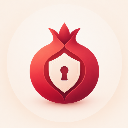
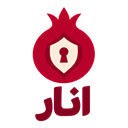
Release Anar Toolkit 1.5.6 with refreshed branding

diff --git a/assets/css/admin.css b/assets/css/admin.css
@@ -38,8 +38,6 @@
 .anar-admin__title img {
 	width: 56px;
 	height: 56px;
-	border-radius: 17px;
-	box-shadow: 0 8px 22px rgba(183, 21, 58, .16);
 }
 
 .anar-admin__title > div > div {

diff --git a/src/Commerce/Dashboard.php b/src/Commerce/Dashboard.php
@@ -93,7 +93,7 @@ final class Dashboard {
 		$pending = (int) ( $data['queue']['pending']->count ?? 0 );
 		$failed = (int) ( $data['queue']['failed']->count ?? 0 ) + (int) ( $data['queue']['uncertain']->count ?? 0 );
 		?>
-		<header class="anar-suite-header"><div class="anar-suite-brand"><img src="<?php echo esc_url( ANAR_LOGIN_URL . 'assets/images/anar-logo.png' ); ?>" alt=""><div><p>ANAR TOOLKIT <span>v<?php echo esc_html( ANAR_LOGIN_VERSION ); ?></span></p><h1><?php esc_html_e( 'Store communication', 'anar-toolkit' ); ?></h1><p class="anar-suite-subtitle"><?php esc_html_e( 'Manage messages, carts and enabled customer campaigns.', 'anar-toolkit' ); ?></p></div></div><a class="anar-suite-link" href="<?php echo esc_url( admin_url( 'admin.php?page=anar-login-settings' ) ); ?>"><span class="dashicons dashicons-admin-settings"></span><?php esc_html_e( 'Settings', 'anar-toolkit' ); ?></a></header>
+		<header class="anar-suite-header"><div class="anar-suite-brand"><img src="<?php echo esc_url( ANAR_LOGIN_URL . 'assets/images/anar-logo.png?ver=' . ANAR_LOGIN_VERSION ); ?>" alt=""><div><p>ANAR TOOLKIT <span>v<?php echo esc_html( ANAR_LOGIN_VERSION ); ?></span></p><h1><?php esc_html_e( 'Store communication', 'anar-toolkit' ); ?></h1><p class="anar-suite-subtitle"><?php esc_html_e( 'Manage messages, carts and enabled customer campaigns.', 'anar-toolkit' ); ?></p></div></div><a class="anar-suite-link" href="<?php echo esc_url( admin_url( 'admin.php?page=anar-login-settings' ) ); ?>"><span class="dashicons dashicons-admin-settings"></span><?php esc_html_e( 'Settings', 'anar-toolkit' ); ?></a></header>
 		<hr class="wp-header-end">
 		<?php if ( in_array( $tab, array( 'campaigns', 'messages' ), true ) ) : ?>
 			<?php \Anar\Login\Admin\StatusPanel::credit(); ?>

diff --git a/src/Admin/FeaturesPage.php b/src/Admin/FeaturesPage.php
@@ -72,7 +72,7 @@ final class FeaturesPage {
 		$other_first = isset( $_GET['page'] ) && 'anar-features-other' === $_GET['page'];
 		$groups = $other_first ? array( false => __( 'Other features', 'anar-toolkit' ), true => __( 'Active features', 'anar-toolkit' ) ) : array( true => __( 'Active features', 'anar-toolkit' ), false => __( 'Other features', 'anar-toolkit' ) );
 		?>
-		<div class="wrap anar-features" dir="<?php echo is_rtl() ? 'rtl' : 'ltr'; ?>"><header><img src="<?php echo esc_url( ANAR_LOGIN_URL . 'assets/images/anar-logo.png' ); ?>" alt=""><div><h1><?php esc_html_e( 'Anar Toolkit', 'anar-toolkit' ); ?></h1><p><?php esc_html_e( 'Enable the features your store needs.', 'anar-toolkit' ); ?></p></div></header><hr class="wp-header-end">
+		<div class="wrap anar-features" dir="<?php echo is_rtl() ? 'rtl' : 'ltr'; ?>"><header><img src="<?php echo esc_url( ANAR_LOGIN_URL . 'assets/images/anar-logo.png?ver=' . ANAR_LOGIN_VERSION ); ?>" alt=""><div><h1><?php esc_html_e( 'Anar Toolkit', 'anar-toolkit' ); ?></h1><p><?php esc_html_e( 'Enable the features your store needs.', 'anar-toolkit' ); ?></p></div></header><hr class="wp-header-end">
 		<?php StatusPanel::credit(); ?>
 		<p class="anar-features-intro"><?php esc_html_e( 'Active features appear first. Other features remain below with their instructions and activation switch. Turning a feature off keeps its settings and stored records.', 'anar-toolkit' ); ?></p>
 		<form method="post" action="<?php echo esc_url( admin_url( 'admin-post.php' ) ); ?>"><?php wp_nonce_field( 'anar_features' ); ?><input type="hidden" name="action" value="anar_features">

diff --git a/src/Admin/BalancePage.php b/src/Admin/BalancePage.php
@@ -124,7 +124,7 @@ final class BalancePage {
 		}
 		?>
 		<div class="wrap anar-admin anar-balance" dir="<?php echo is_rtl() ? 'rtl' : 'ltr'; ?>">
-			<header class="anar-admin__header"><div class="anar-admin__title"><img src="<?php echo esc_url( ANAR_LOGIN_URL . 'assets/images/anar-logo.png' ); ?>" alt=""><div><div><h1><?php esc_html_e( 'SMS credit', 'anar-toolkit' ); ?></h1><span>v<?php echo esc_html( ANAR_LOGIN_VERSION ); ?></span></div><p><?php esc_html_e( 'Keep track of your messaging credit before it runs out.', 'anar-toolkit' ); ?></p></div></div></header><hr class="wp-header-end">
+			<header class="anar-admin__header"><div class="anar-admin__title"><img src="<?php echo esc_url( ANAR_LOGIN_URL . 'assets/images/anar-logo.png?ver=' . ANAR_LOGIN_VERSION ); ?>" alt=""><div><div><h1><?php esc_html_e( 'SMS credit', 'anar-toolkit' ); ?></h1><span>v<?php echo esc_html( ANAR_LOGIN_VERSION ); ?></span></div><p><?php esc_html_e( 'Keep track of your messaging credit before it runs out.', 'anar-toolkit' ); ?></p></div></div></header><hr class="wp-header-end">
 			<?php self::result_notice(); ?>
 			<form id="anar-balance-settings" method="post" action="<?php echo esc_url( admin_url( 'admin-post.php' ) ); ?>">
 				<input type="hidden" name="action" value="anar_balance_save"><?php wp_nonce_field( 'anar_balance_save' ); ?>

diff --git a/src/Admin/SettingsPage.php b/src/Admin/SettingsPage.php
@@ -57,7 +57,7 @@ final class SettingsPage {
 			'manage_options',
 			'anar-login',
 			array( FeaturesPage::class, 'render' ),
-			'dashicons-shield-alt',
+			ANAR_LOGIN_URL . 'assets/images/anar-menu-icon.png?ver=' . ANAR_LOGIN_VERSION,
 			58
 		);
 	}
@@ -149,7 +149,7 @@ final class SettingsPage {
 		<div class="wrap anar-admin" dir="<?php echo esc_attr( $direction ); ?>">
 			<header class="anar-admin__header">
 				<div class="anar-admin__title">
-					<img src="<?php echo esc_url( ANAR_LOGIN_URL . 'assets/images/anar-logo.png' ); ?>" alt="">
+					<img src="<?php echo esc_url( ANAR_LOGIN_URL . 'assets/images/anar-logo.png?ver=' . ANAR_LOGIN_VERSION ); ?>" alt="">
 					<div>
 						<div><h1>Anar Toolkit</h1><span>v<?php echo esc_html( ANAR_LOGIN_VERSION ); ?></span></div>
 						<p><?php esc_html_e( 'SMS sign-in and customer communication tools', 'anar-toolkit' ); ?></p>

diff --git a/anar-login.php b/anar-login.php
@@ -3,7 +3,7 @@
  * Plugin Name:       Anar Toolkit – SMS Login, Recovery & Marketing for WooCommerce
  * Plugin URI:        https://mrnwp.ir/anar/
  * Description:       SMS, email and Google login, SMS password reset, cart recovery and customer communication tools for WooCommerce.
- * Version:           1.5.5
+ * Version:           1.5.6
  * Requires at least: 6.2
  * Requires PHP:      7.4
  * Author:            Mehran Marandi
@@ -18,7 +18,7 @@
 
 defined( 'ABSPATH' ) || exit;
 
-define( 'ANAR_LOGIN_VERSION', '1.5.5' );
+define( 'ANAR_LOGIN_VERSION', '1.5.6' );
 define( 'ANAR_LOGIN_FILE', __FILE__ );
 define( 'ANAR_LOGIN_PATH', plugin_dir_path( __FILE__ ) );
 define( 'ANAR_LOGIN_URL', plugin_dir_url( __FILE__ ) );

diff --git a/src/Admin/StatusPanel.php b/src/Admin/StatusPanel.php
@@ -49,7 +49,7 @@ final class StatusPanel {
 		?>
 		<div class="anar-status-widget">
 			<div class="anar-status-widget__brand">
-				<img src="<?php echo esc_url( ANAR_LOGIN_URL . 'assets/images/anar-logo.png' ); ?>" alt="" width="32" height="32">
+				<img src="<?php echo esc_url( ANAR_LOGIN_URL . 'assets/images/anar-logo.png?ver=' . ANAR_LOGIN_VERSION ); ?>" alt="" width="32" height="32">
 				<strong><?php esc_html_e( 'Anar Toolkit', 'anar-toolkit' ); ?></strong>
 				<bdi class="anar-status-widget__version">v<?php echo esc_html( ANAR_LOGIN_VERSION ); ?></bdi>
 			</div>

diff --git a/languages/anar-toolkit-fa_IR.l10n.php b/languages/anar-toolkit-fa_IR.l10n.php
@@ -1,6 +1,6 @@
 <?php
 return array(
-'project-id-version' => 'Anar Toolkit 1.5.5',
+'project-id-version' => 'Anar Toolkit 1.5.6',
 'language' => 'fa_IR',
 'plural-forms' => 'nplurals=2; plural=(n > 1);',
 'messages' => array(

diff --git a/CHANGELOG.md b/CHANGELOG.md
@@ -1,5 +1,9 @@
 # Changelog
 
+## 1.5.6 — 2026-11-10
+
+- Refresh the WordPress.org banners and search icon, and use a transparent Anar mark in the WordPress admin.
+
 ## 1.5.5 — 2026-11-10
 
 - Add an administrator dashboard widget with feature status and recorded SMS outcomes for today and the last seven days.
